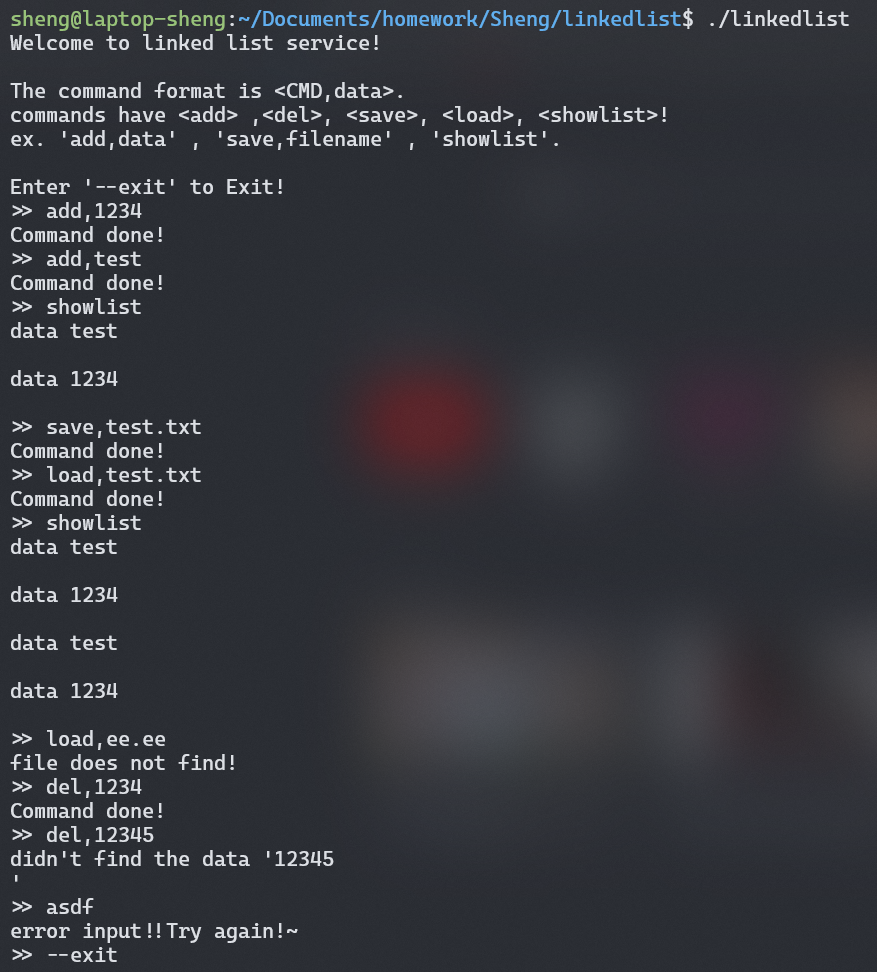
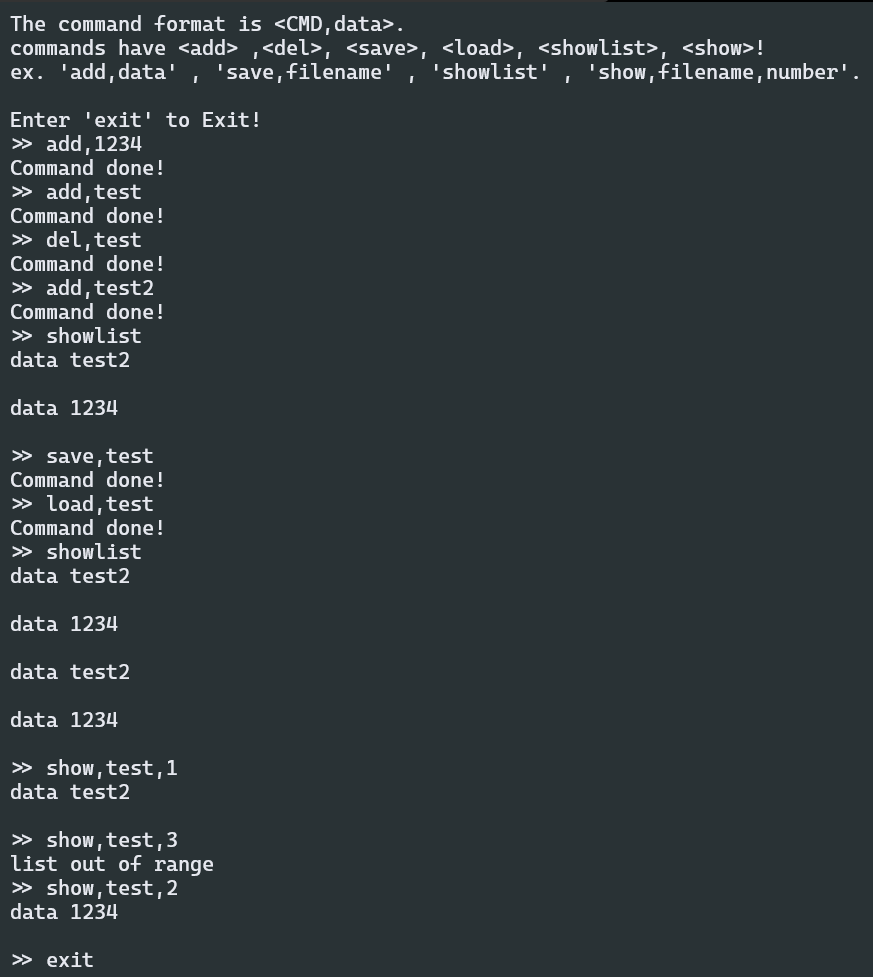
fix linkedlist/linkedlist.c and update linkedlist.png

diff --git a/Sheng/linkedlist/linkedlist.c b/Sheng/linkedlist/linkedlist.c
@@ -131,7 +131,9 @@ void save (Node **node, char *fname) {
     *(fname + strlen(fname)-1) = '\0';
     save = fopen(fname, "w");
     
-    *(strstr(fname,".")) = '\0';
+    if (strstr(fname,".") != NULL) {
+        *(strstr(fname,".")) = '\0';
+    }
     strcpy(name_index, fname);
     strcat(name_index, "_index.bin");
     index = fopen(name_index, "wb");
@@ -243,16 +245,24 @@ void showN (char *input) {
     load = fopen(input, "r");
     if (load == NULL) {
         printf("can't not open the file %s\n", input);
+
+        fclose(load);
         return;
     }
     
     name_index = (char *)malloc(strlen(input)+6);
-    *(strstr(input, ".")) = '\0';
+    if (strstr(input, ".") != NULL) {
+        *(strstr(input, ".")) = '\0';
+    }
     strcpy(name_index, input);
     strcat(name_index, "_index.bin");
     index = fopen(name_index, "rb");
     if (index == NULL) {
         printf("can't not open the file %s\n", name_index);
+
+        fclose(load);
+        fclose(index);
+        free(name_index);
         return;
     }
 
@@ -262,16 +272,20 @@ void showN (char *input) {
     fread(&len, sizeof(int), 1, index);
     if (pos < 0 || len < 0) {
         printf("list out of range\n");
+
+        fclose(load);
+        fclose(index);
+        free(name_index);
         return;
     }
     len -= pos;
 
     fseek(load, pos, SEEK_SET);
     data = (char *)malloc(len);
-    fread(data, len, 1, load);
-
-    if (data != NULL) {
+    if(fread(data, len, 1, load)) {
         printf("data %s\n", data);
+    } else {
+        printf("data not find!!\n");
     }
 
     fclose(load);
